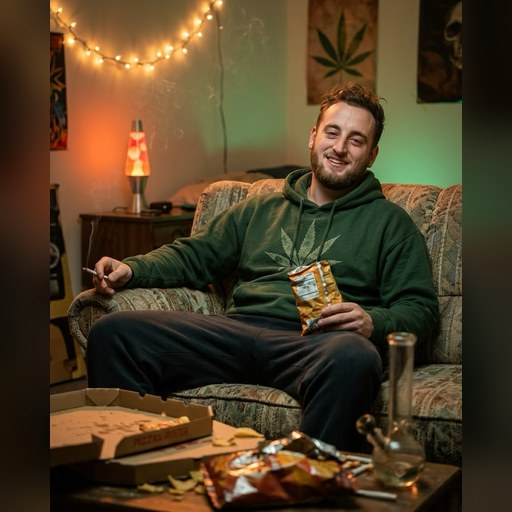
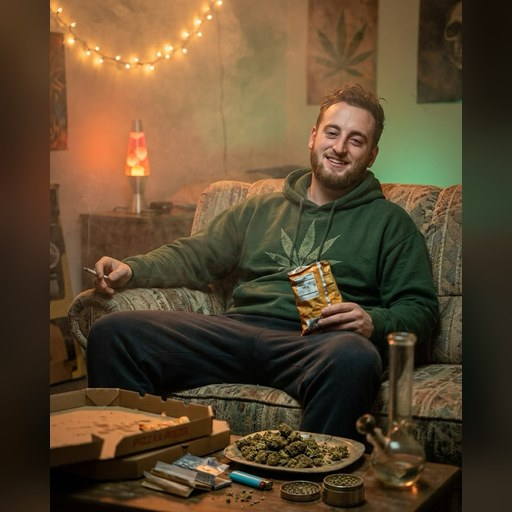
v452: Kiffer-Paul-Bild aktualisiert (mehr Rauch, Gras, Grinder)
Claude-Session: https://claude.ai/code/session_01Bq3j1UmgmmQRjdUKFtX7an

diff --git a/kern/ui.js b/kern/ui.js
@@ -48,7 +48,7 @@ export const FREUNDE = [
   { id: "freund-saiyajin-hilna",     bild: "bilder/freund-saiyajin-hilna.jpg?v=448",     vorname: "Hilna", nachname: "Saiyajin" },
   { id: "freund-pippi-benni",         bild: "bilder/freund-pippi-benni.jpg?v=449",         vorname: "Benni", nachname: "Pippi" },
   { id: "freund-krankenschwester-marek", bild: "bilder/freund-krankenschwester-marek.jpg?v=450", vorname: "Marek", nachname: "Krankenschwester" },
-  { id: "freund-kiffer-paul",         bild: "bilder/freund-kiffer-paul.jpg?v=451",         vorname: "Paul", nachname: "Kiffer" }
+  { id: "freund-kiffer-paul",         bild: "bilder/freund-kiffer-paul.jpg?v=452",         vorname: "Paul", nachname: "Kiffer" }
 ];
 
 // Kombinierte Liste für Nachschlagen (z. B. in der Lobby, im laufenden Spiel,

diff --git a/sw.js b/sw.js
@@ -4,7 +4,7 @@
 // Nur dann wirft der Browser den alten Zwischenspeicher weg und alle Spieler
 // bekommen zuverlässig die neue Version. Das ist der einzige Handgriff, den man
 // nach dem Bearbeiten von Dateien nicht vergessen darf.
-const CACHE_NAME = "trollhouse-v451";
+const CACHE_NAME = "trollhouse-v452";
 
 const DATEIEN = [
   "./",
@@ -256,7 +256,7 @@ const DATEIEN = [
   "bilder/freund-saiyajin-hilna.jpg?v=448",
   "bilder/freund-pippi-benni.jpg?v=449",
   "bilder/freund-krankenschwester-marek.jpg?v=450",
-  "bilder/freund-kiffer-paul.jpg?v=451"
+  "bilder/freund-kiffer-paul.jpg?v=452"
 ];
 
 self.addEventListener("install", (event) => {

diff --git a/app.js b/app.js
@@ -15,7 +15,7 @@ import {
 // Spiel-Fixes (spiele/<id>/spiel.js) verzoegert oder gar nicht mit.
 import { SPIELE, spielInfo } from "./spiele/register.js?v=335";
 
-export const APP_VERSION = "v451";
+export const APP_VERSION = "v452";
 const appVersion = document.getElementById("app-version");
 appVersion.textContent = "Version " + APP_VERSION;
 

diff --git a/spiele/register.js b/spiele/register.js
@@ -18,7 +18,7 @@
 // in der Olympiade trotz Fix in v201/v202 teils noch bestehen lassen.
 // WICHTIG: bei jedem Versionssprung hier UND in app.js (Import von
 // register.js) mit hochzaehlen.
-const SPIEL_VERSION = "451";
+const SPIEL_VERSION = "452";
 
 export const SPIELE = [
   {
